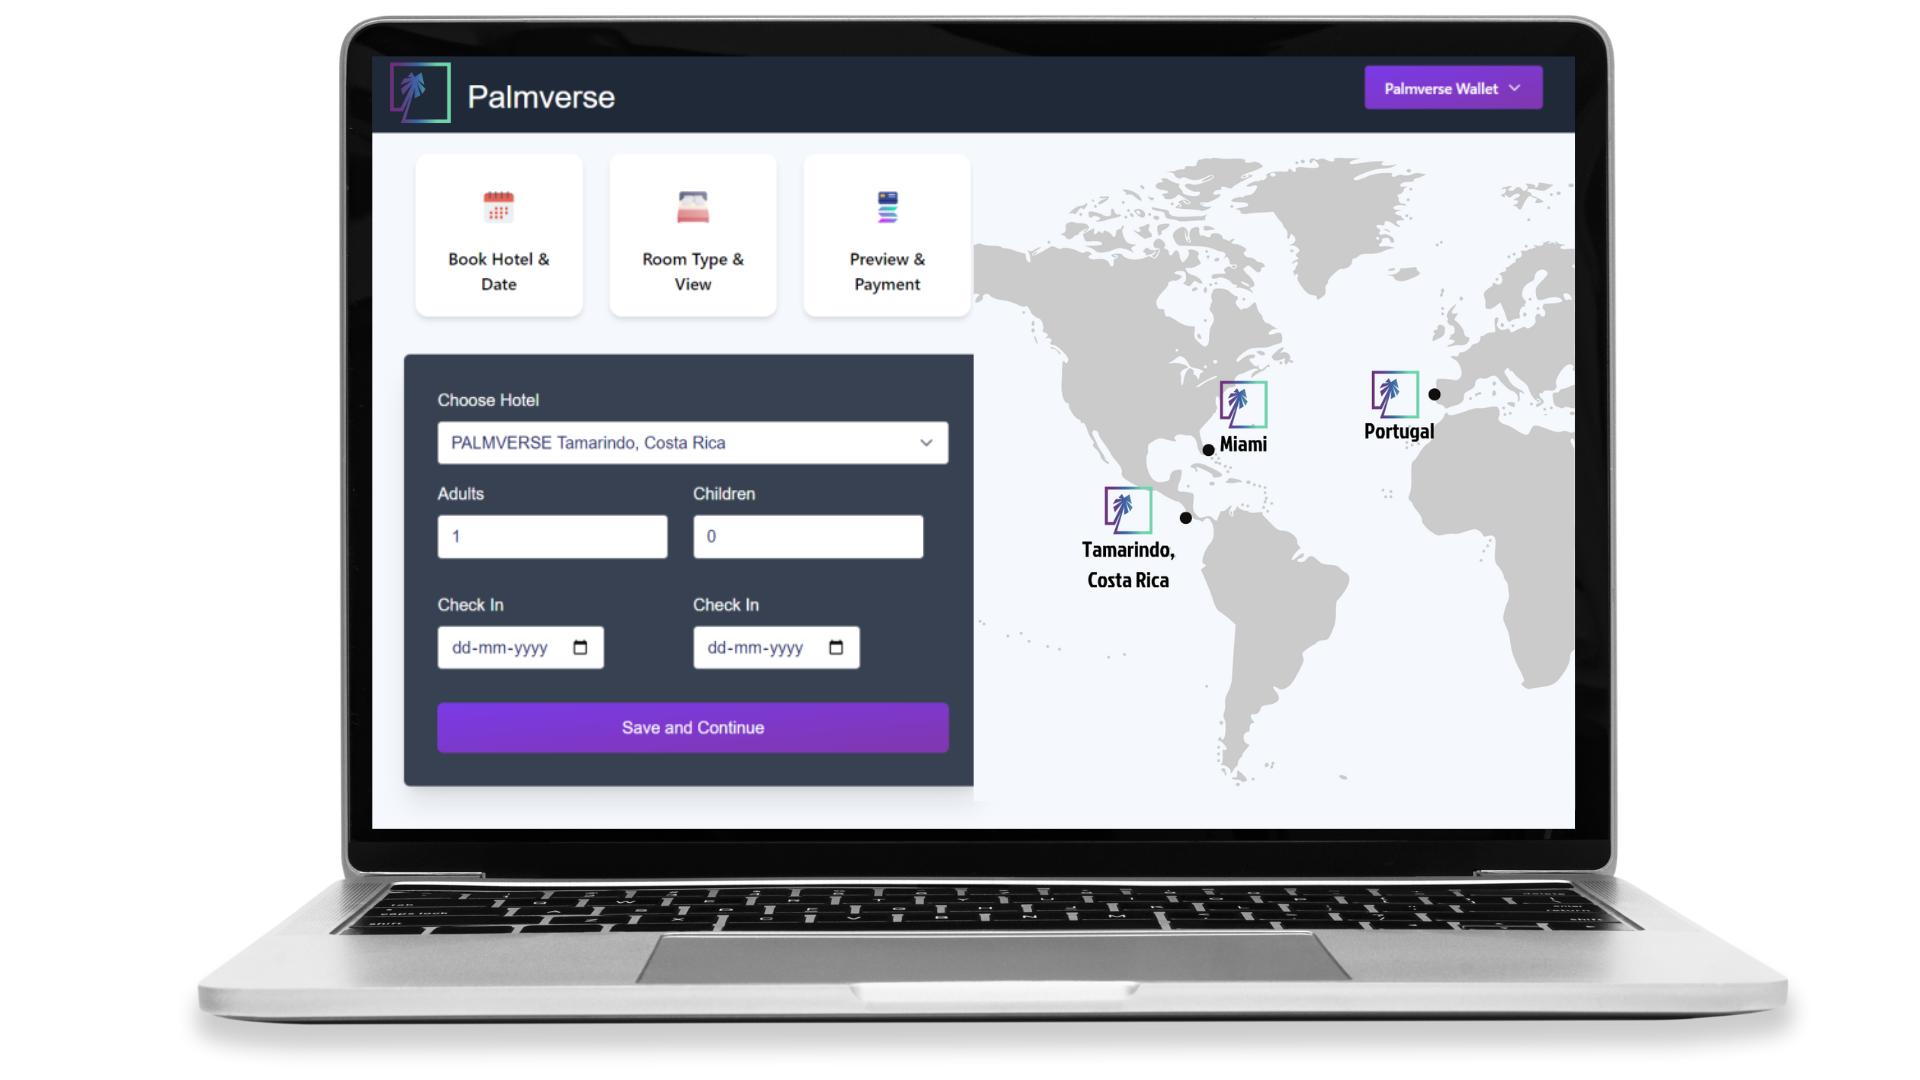
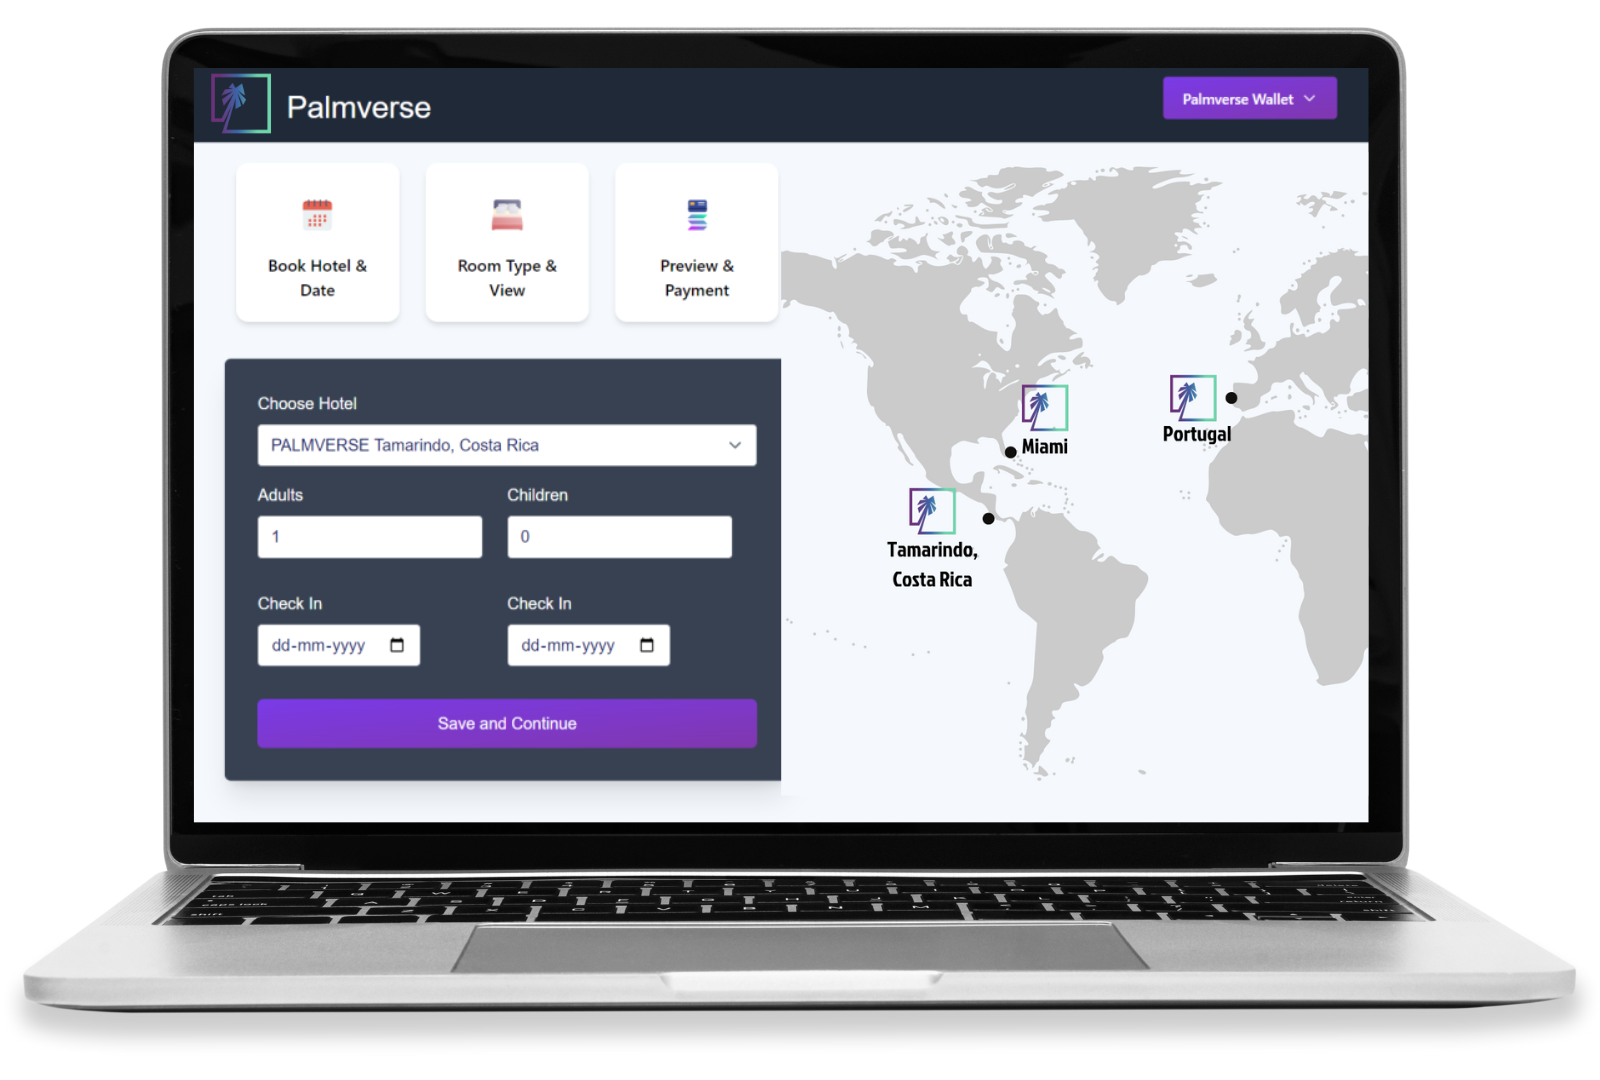
test

Changed region(s): [[0.0, 0.0, 1.0, 0.9778], [0.625, 0.5194, 0.7188, 0.7333]]

diff --git a/components/Page/Home/Hero.jsx b/components/Page/Home/Hero.jsx
@@ -66,9 +66,11 @@ const Hero = () => {
 
         </div>
         <div className="flex flex-col md:flex-row space-y-10 md:space-y-0 justify-evenly items-center w-[90%] mx-auto py-16">
-            <div className="md:w-[50%] md:mx-auto md:px-4">
+            <div className="md:w-[50%] md:mx-auto md:px-4 scale-75 md:scale-100">
+                <div className="">
 
-                <Image src='/icons/groot.png' alt='palmverse-groot' height={400} width={400} layout="fixed" />
+                    <Image src='/icons/groot.png' alt='palmverse-groot' height={400} width={400} layout="fixed" />
+                </div>
             </div>
             <h1 className="text-3xl text-center font-medium text-[#ECF7FD]">Whether you’re a travel addict, digital nomad, <span className="text-green_text">an NFT wanderer</span>, or a surfer looking for paradise, <span className="underline underline-offset-4" >you’ve come to the right place.</span></h1>
         </div>
@@ -88,11 +90,9 @@ const Hero = () => {
                 </div>
             </div>
             <div className="flex flex-col justify-end items-center py-4 md:py-0" >
-                <div style={{
-                    transform: 'scale(1.2)'
-                }} className=" mt-8 md:mt-0 md:scale-100">
+                <div className=" mt-8 md:mt-0 md:scale-100">
 
-                    <Image src='/images/laptop.png' alt='laptop palverse' width={771} height={432} />
+                    <Image src='/images/laptop.png' alt='laptop palverse' width={550} height={370} />
                 </div>
                 <h1 className="text-3xl font-medium text-center py-4 text-[#ECF7FD]">
 
